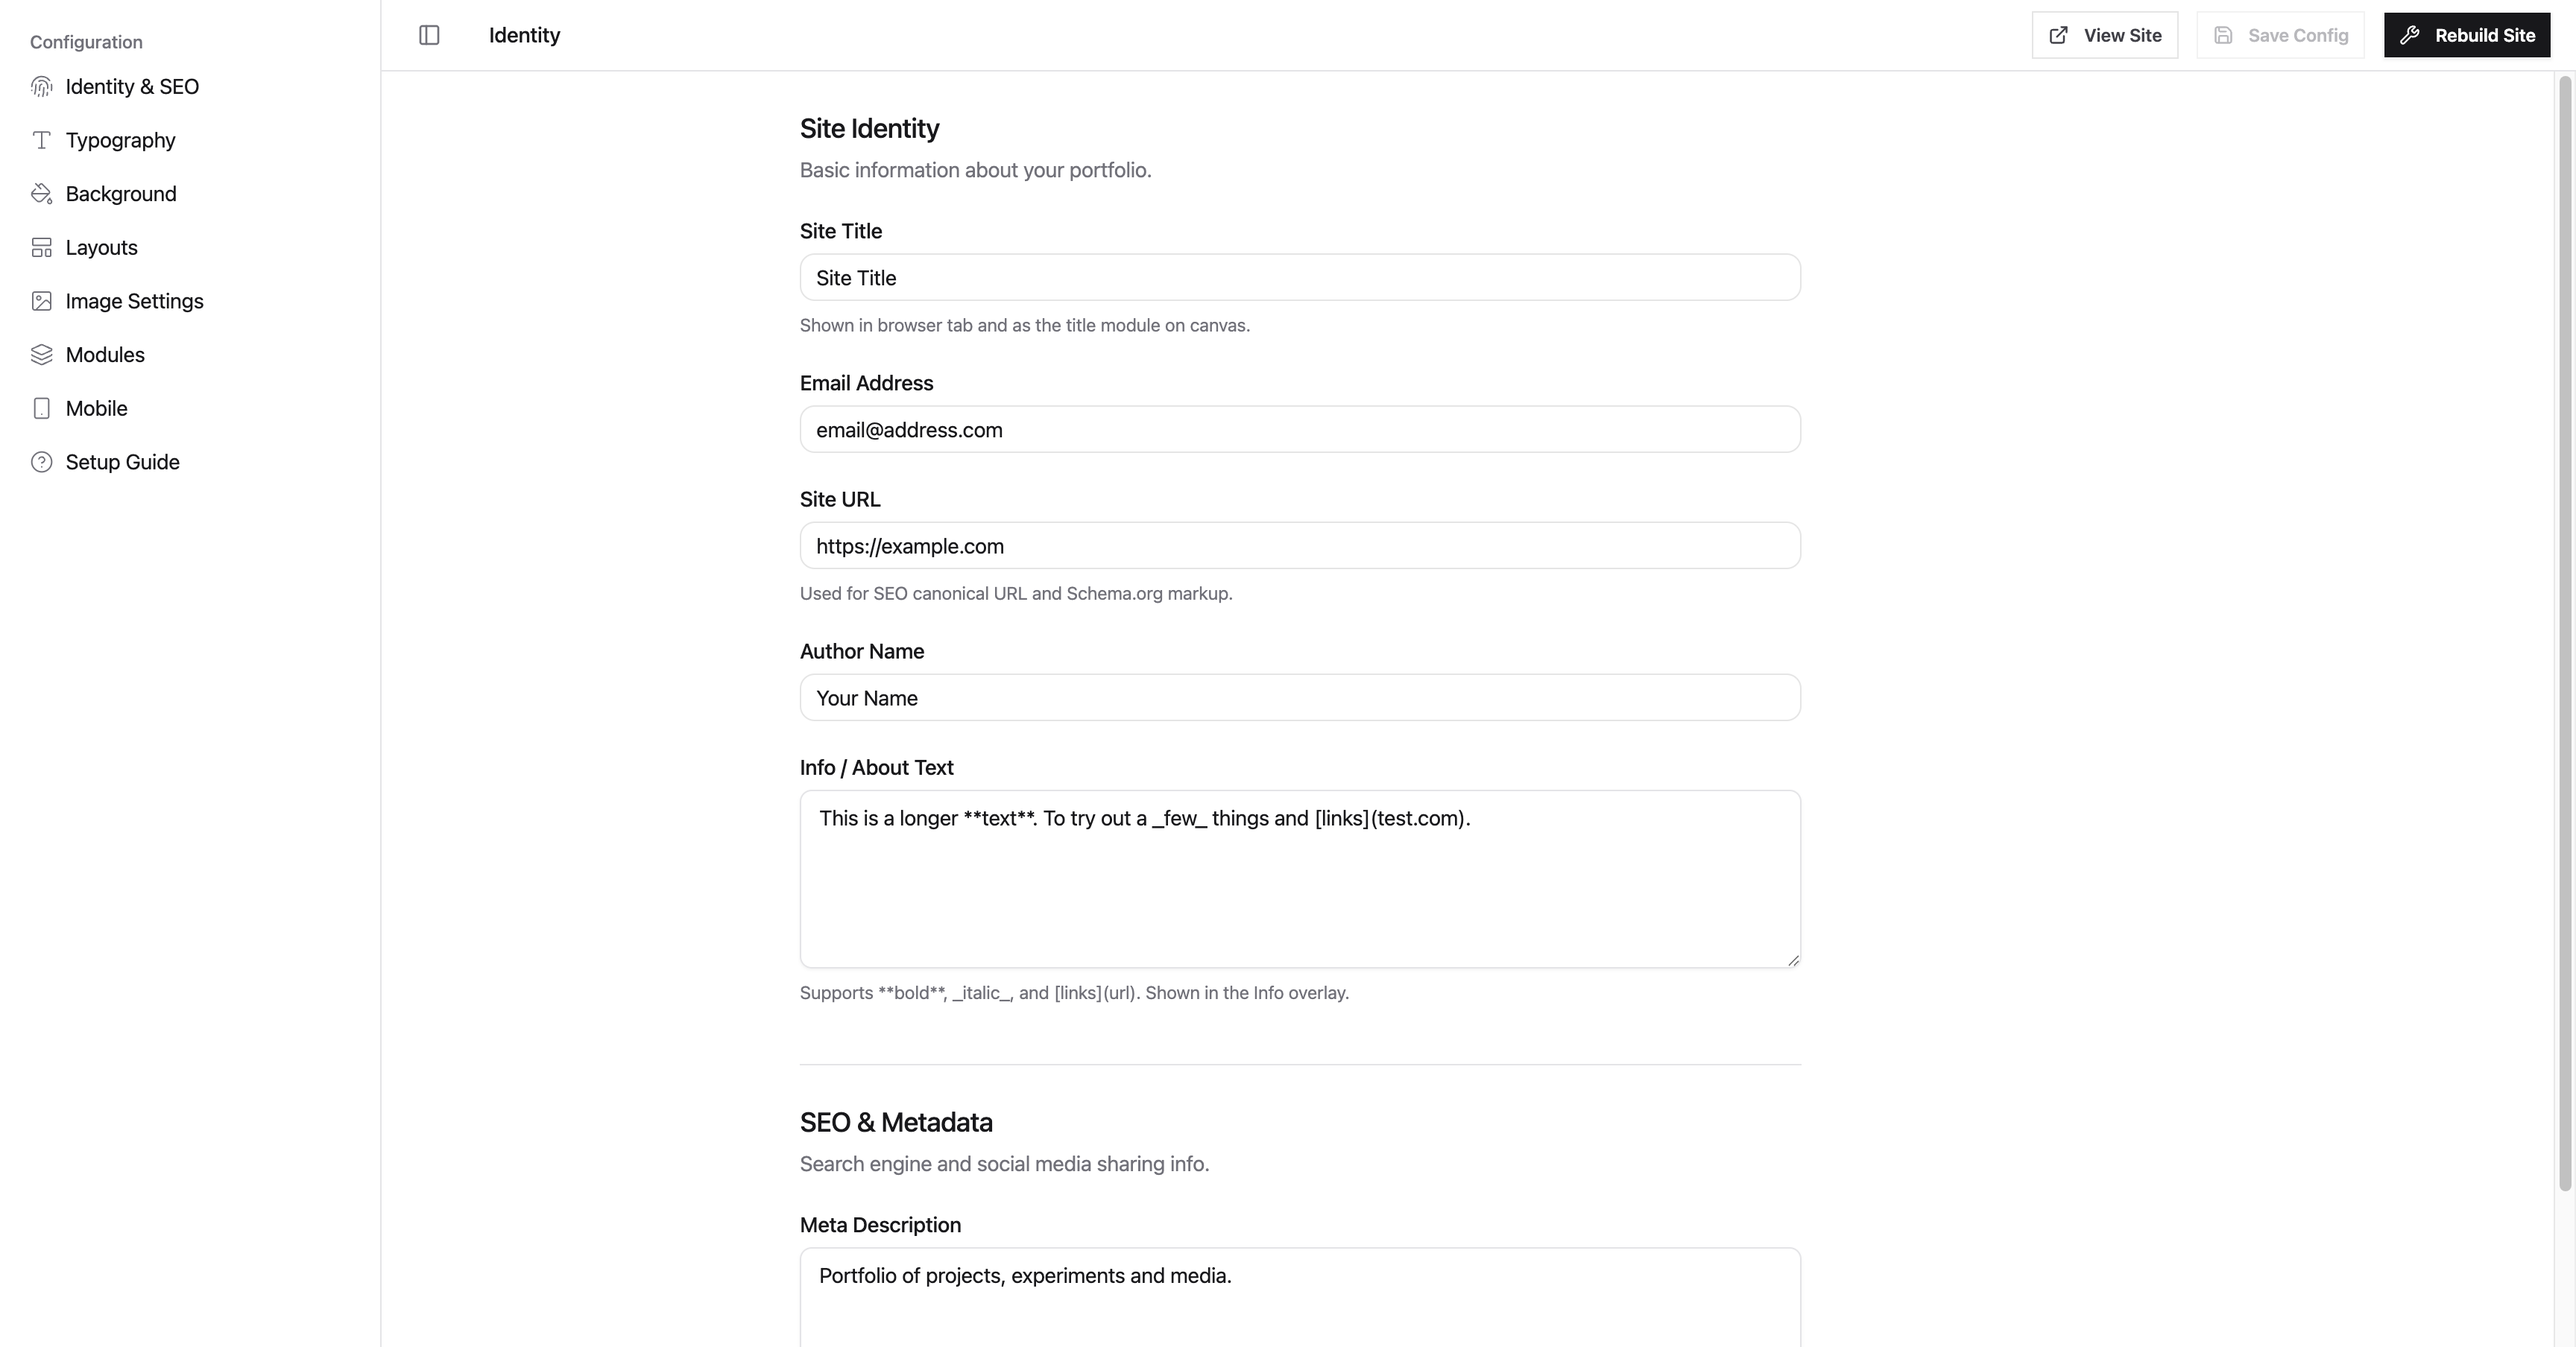
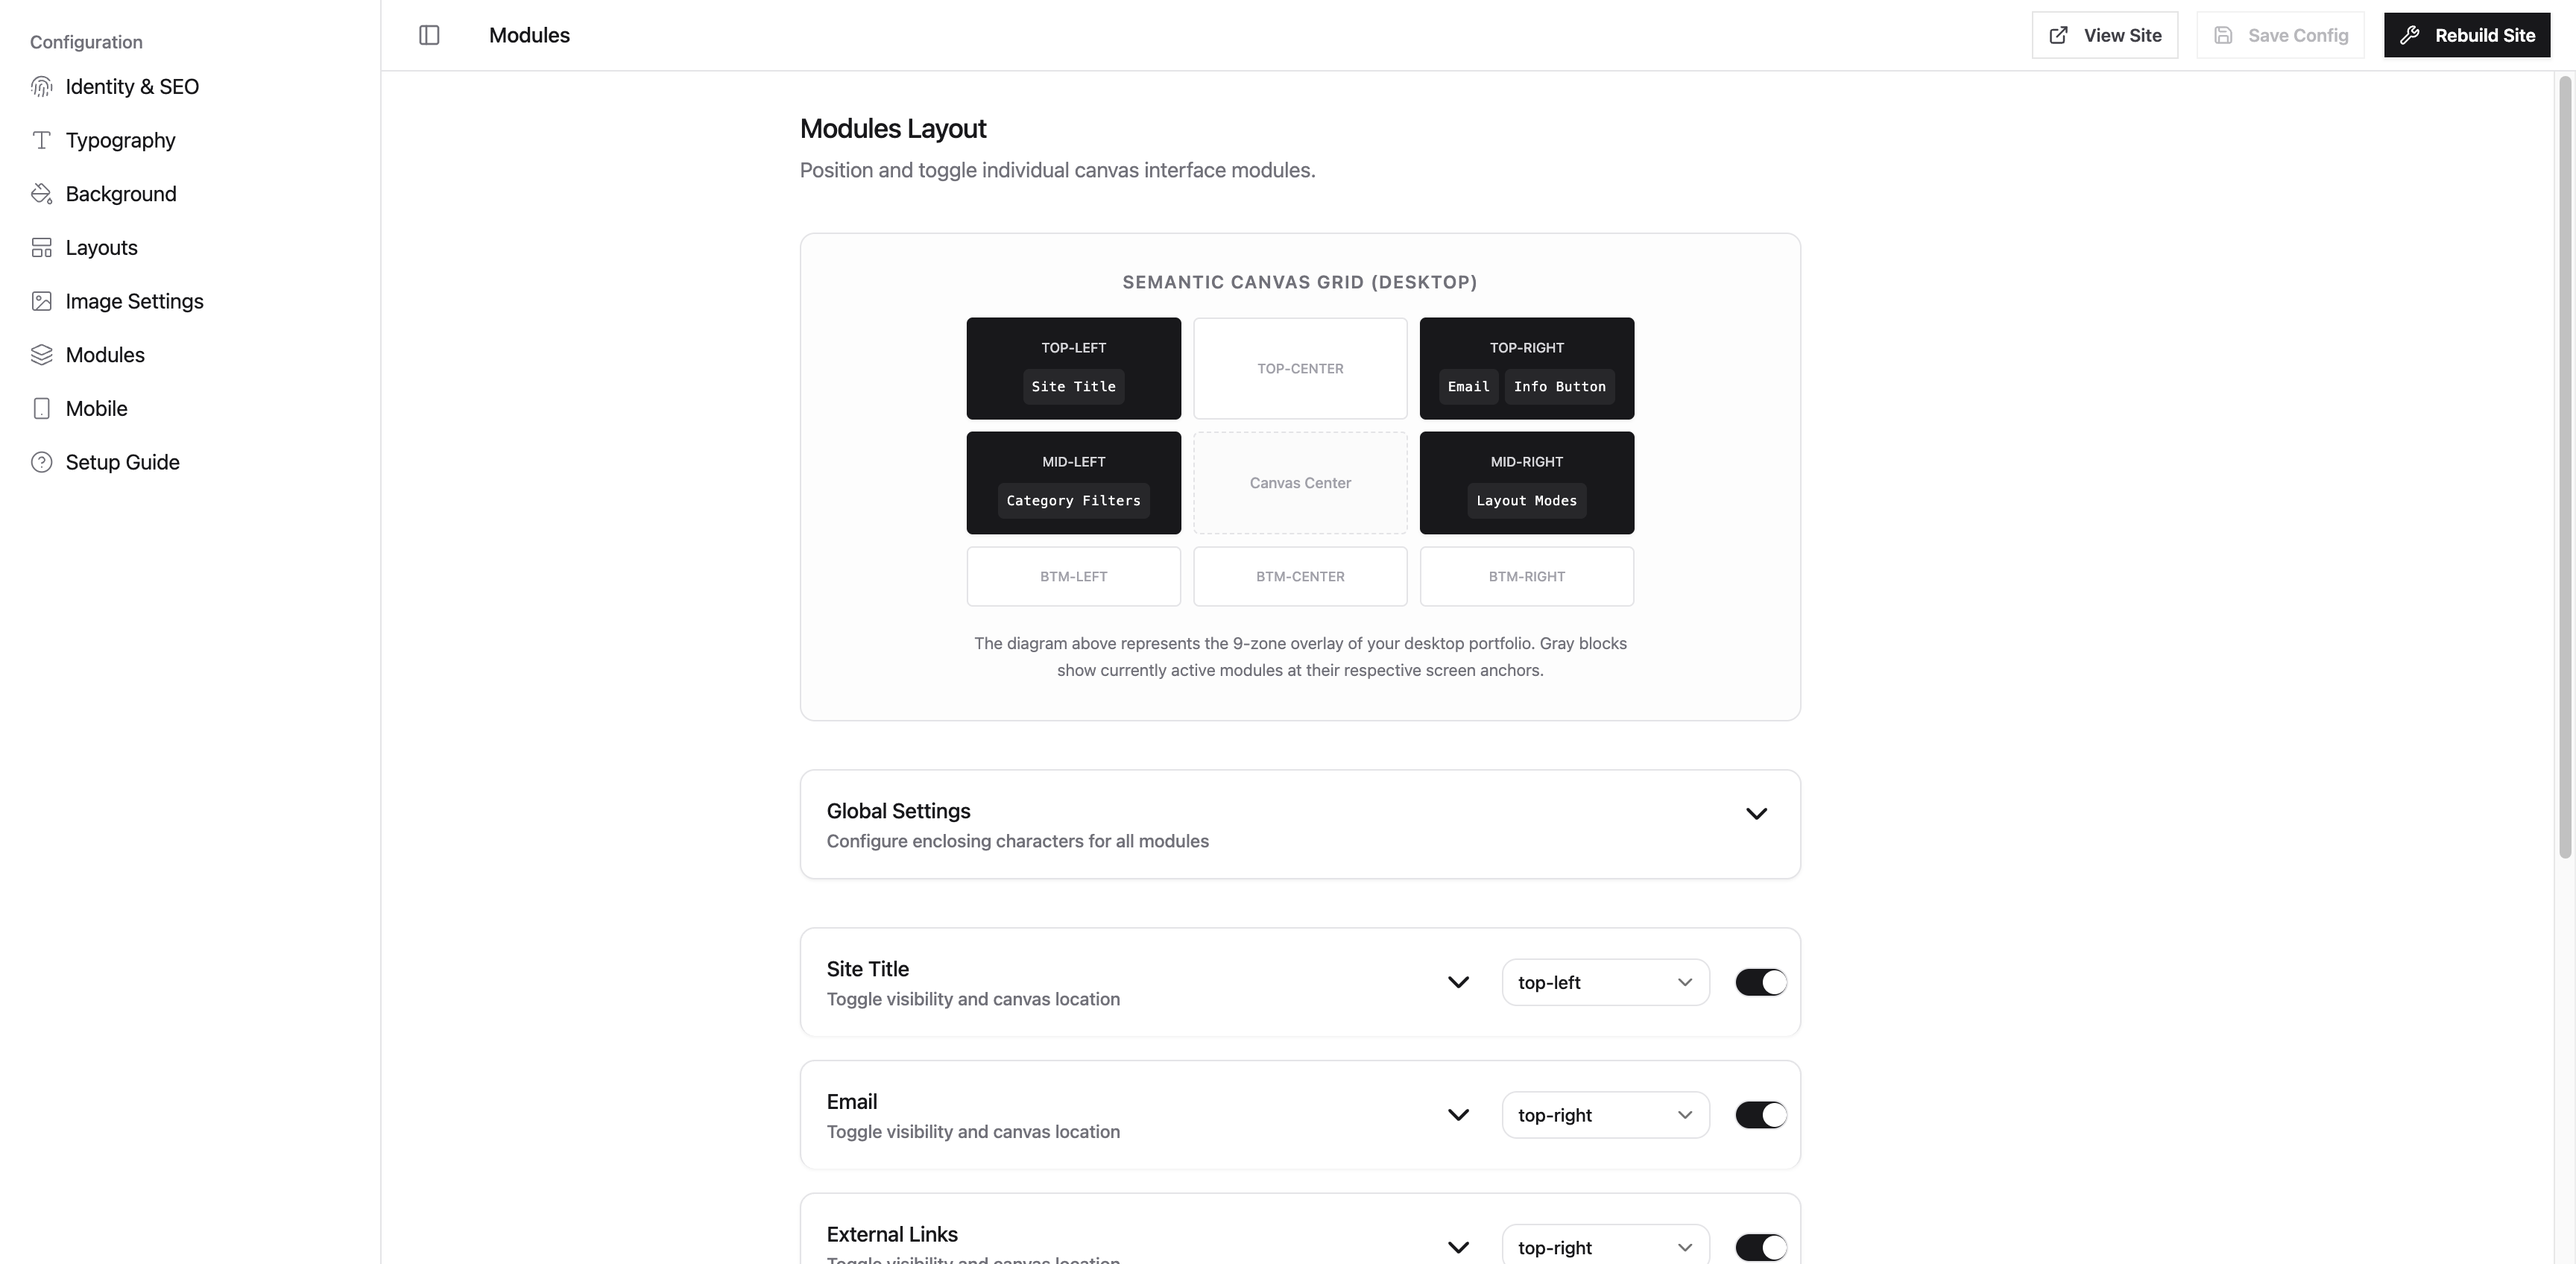
docs: fix table header row, retake correct modules screenshot

diff --git a/README.md b/README.md
@@ -19,9 +19,7 @@ A fully interactive, drag-and-drop portfolio website you can set up without touc
 
 A non-scrolling, pan-and-zoom canvas that you fill with your own images. Multiple layout modes (random scatter, rows, stacks, infinite grid), category filtering, custom typography, animated backgrounds, and full mobile support.
 
-| | |
-|---|---|
-| ![](readme-assets/screenshot-template.png) | ![](readme-assets/screenshot-template-infinite.png) |
+<table><tr><td><img src="readme-assets/screenshot-template.png"></td><td><img src="readme-assets/screenshot-template-infinite.png"></td></tr></table>
 
 **Stack:** Zero dependencies. Vanilla HTML, CSS, and JavaScript. No framework, no build step, no node_modules. The output is a folder of static files.
 
@@ -31,9 +29,7 @@ A non-scrolling, pan-and-zoom canvas that you fill with your own images. Multipl
 
 A local web app that lets you configure everything visually — site identity, typography, backgrounds, image effects, layout modes, modules, and mobile settings. Changes hot-reload into the portfolio preview instantly. When you're done, hit **Rebuild** to generate a fresh `data.js` from your images, then deploy.
 
-| | |
-|---|---|
-| ![](readme-assets/screenshot-admin-identity.png) | ![](readme-assets/screenshot-admin-modules.png) |
+<table><tr><td><img src="readme-assets/screenshot-admin-identity.png"></td><td><img src="readme-assets/screenshot-admin-modules.png"></td></tr></table>
 
 **Stack:** React 19, Vite, Tailwind CSS, shadcn/ui, Zustand. Served locally by a lightweight Node.js server (no cloud, no accounts, no subscriptions).
 
